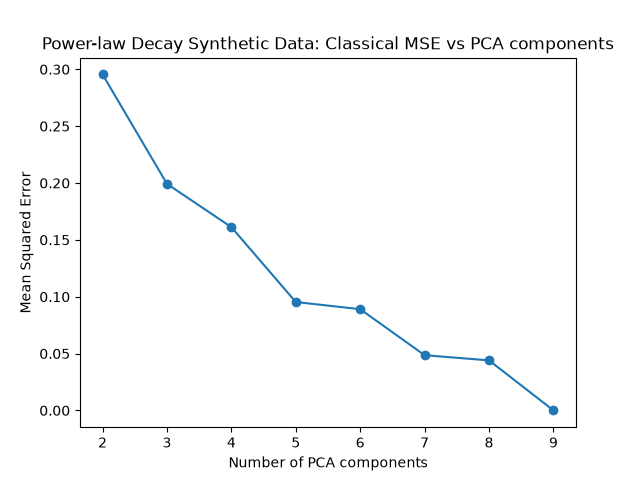
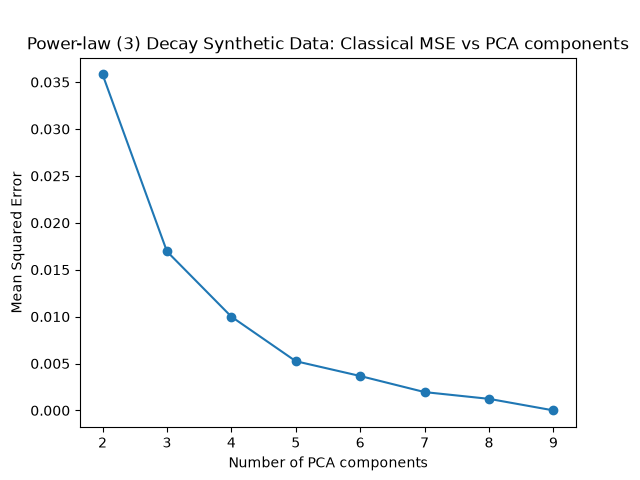
New stuff

diff --git a/QML/QVSR-PCA_Synth_bloch_Powerlaw_UltimatePauli.py b/QML/QVSR-PCA_Synth_bloch_Powerlaw_UltimatePauli.py
@@ -1,0 +1,219 @@
+from sklearn.datasets import fetch_california_housing
+from sklearn.datasets import load_diabetes
+import matplotlib
+matplotlib.use("Agg")  # save-only backend, safe in worker processes
+import matplotlib.pyplot as plt
+from sklearn.model_selection import train_test_split
+from sklearn.preprocessing import MinMaxScaler
+import numpy as np
+from sklearn.svm import SVR
+from classiq import *
+from classiq.applications.qsvm.qsvm import QSVM, QuantumKernelEvaluator
+from classiq.applications.qsvm.quantum_feature_maps import pauli_feature_map
+from classiq.open_library.functions.variational import encode_on_bloch
+from classiq.open_library.functions.variational import inplace_encode_on_bloch
+import random
+from sklearn.metrics import mean_squared_error
+from sklearn.metrics import r2_score
+from pathlib import Path
+import csv
+ # Set a random seed for reproducibility
+
+IMAGES_DIR = Path(__file__).resolve().parent.parent / "Powerlaw Pauli"
+IMAGES_DIR.mkdir(exist_ok=True)
+
+#for some reason, sklearn is not installed in the classiq environment, so we have to install it manually
+
+
+
+
+@qfunc
+def Map(data: CArray[CReal], x: QArray[QBit]):
+    inplace_encode_on_bloch(data, x)
+
+def QSVR_PCA(model, target,k, qubit_exponent ):
+    X_train, X_test, y_train, y_test = train_test_split(model, target, test_size=0.2, random_state=0) #split
+
+
+
+    X_train = np.array(X_train, float)
+    X_test  = np.array(X_test, float)
+    y_train = np.array(y_train, float)
+    y_test  = np.array(y_test, float)
+
+
+    cov = np.cov(X_train.T) #Covariance matrix of the standardized data/ How data moves together
+    #what does .T mean? (Transpose)
+
+
+    eigenvalues, eigenvectors = np.linalg.eigh(cov) #Eigen decomposition of the covariance matrix
+
+    explained = eigenvalues / eigenvalues.sum()
+
+    vecs = eigenvectors[:, ::-1] #orders strongest first, weakest last
+
+    X_train = X_train @ vecs[:, :k] #apperently creates a leak when done to the whole dataset
+    X_test = X_test @ vecs[:, :k]
+
+
+    scaler = MinMaxScaler(feature_range=(0, 2*np.pi))
+
+    X_train = scaler.fit_transform(X_train)   # learn min/max FROM TRAIN, then scale
+    X_test  = scaler.transform(X_test)        # apply TRAIN's min/max to test
+
+    PCA_weights = []
+    powerlaw_exponent = qubit_exponent
+
+    for i in range(X_train.shape[1]):
+        PCA_weights.append(
+            round((X_train.shape[1] / (i + 1)) ** powerlaw_exponent)
+        )
+
+    total_qubits = sum(PCA_weights)
+    if total_qubits > 24:
+        print(f"Skipping {k} PCs: requires {total_qubits} qubits")
+        return None
+
+    print(f"PCA with {k} components, {total_qubits} qubits")
+
+    X_train =np.repeat(X_train, PCA_weights, axis=1)
+    X_test =np.repeat(X_test, PCA_weights, axis=1)
+
+
+
+    #mini split due to hardware limitations
+    X_train, y_train = X_train[:60], y_train[:60]
+    X_test,  y_test  = X_test[:20],  y_test[:20]
+
+
+    N_DIM = X_train.shape[1]             
+    PAULIS = [[Pauli.Z], [Pauli.Z, Pauli.Z]] # single-qubit Z rotations + two-qubit ZZ rotations
+    AFFINES = [[1, 0], [1, np.pi]]           # how data values map into rotation angles
+    CONNECTIVITY = 2                          # which qubit pairs get entangled (2 = full: all pairs)
+    REPS = 2                                 # how many times to repeat the encoding block
+
+    feature_map = lambda data, qba: pauli_feature_map(  #still dont understand lambda fucntions
+        data, PAULIS, AFFINES, CONNECTIVITY, REPS, qba
+    )
+    kernel = QuantumKernelEvaluator(feature_map=feature_map, num_qubits= X_train.shape[1])
+
+    K_train = kernel.kernel(X_train)            # (60, 60) — train vs train
+    K_test  = kernel.kernel(X_test, X_train)    # (20, 60) — test vs train
+
+    qsvr = SVR(kernel="precomputed")   # "precomputed" = "I'll hand you the kernel myself"
+    qsvr.fit(K_train, y_train)         # learn from the quantum train kernel + real prices
+    preds = qsvr.predict(K_test)       # predict on the test-vs-train kernel
+
+    print("QSVR test MSE:", mean_squared_error(y_test, preds))
+
+    print("K_train mean:", K_train.mean())
+    print("K_train std :", K_train.std())
+    print("K_train min :", K_train.min(), "max:", K_train.max())
+
+    return mean_squared_error(y_test, preds), r2_score(y_test, preds), total_qubits
+
+def GenerateData(exp):
+    np.random.seed(0) 
+    num_samples = 1000
+    num_features = 9
+
+    eigenvalues_sorted = np.array([
+        0.5 / k**exp
+        for k in range(1, num_features + 1)
+    ])
+
+    random_data = np.random.randn(num_samples, num_features)
+
+    synthetic_data = random_data @ np.diag(np.sqrt(eigenvalues_sorted))
+
+    return synthetic_data
+
+def Powerlaw_QSVR_PCA(powerlaw_exponent, qubit_exponent):
+    mse= []
+    components = []
+    R = []
+
+    X = GenerateData(powerlaw_exponent)
+    np.random.seed(0)
+    X_std = (X - X.mean()) / X.std()#Standardization / dont understant what its doing
+
+    # ML TIME
+    y = X.sum(axis=1)
+
+    done = load_done()
+
+    for g in range(2, 9):
+        if (powerlaw_exponent, qubit_exponent, g) in done:
+            print(f"Already done: data={powerlaw_exponent}, qubits={qubit_exponent}, k={g}")
+            row = done[(powerlaw_exponent, qubit_exponent, g)]
+            mse.append(row[0])
+            R.append(row[1])
+            components.append(g)
+            continue
+
+        print("PCA with", g, "components")
+
+        l = QSVR_PCA(X_std, y, g, qubit_exponent)
+
+        if l is None:
+            continue
+
+        R.append(l[1])
+        mse.append(l[0])
+        components.append(g)
+        
+        with RESULTS_CSV.open("a", newline="") as f:
+            writer = csv.writer(f)
+            writer.writerow([
+                "Pauli",
+                powerlaw_exponent,
+                qubit_exponent,
+                g,
+                l[2],
+                l[0],
+                l[1]
+            ])
+
+    plt.figure()
+    plt.plot( components,mse, marker='o')
+    plt.title(f"powerlaw weights({powerlaw_exponent})  No Rotation Synthetic data Pauli encoding with weights({qubit_exponent}) : QSVR with PCA")
+    plt.xlabel("Number of PCA components")
+    plt.ylabel("Mean Squared Error")
+    plt.savefig(IMAGES_DIR / f"qsvr_pca_powerlawweights_NoRotation_{powerlaw_exponent}_pauli_{qubit_exponent}.png")
+    plt.close()
+
+
+RESULTS_CSV = IMAGES_DIR / "QSVR_Powerlaw_Pauli_NoRotation_Results.csv"
+
+def load_done():
+    # rows already in the CSV, so a restart picks up where it left off instead of starting over
+    done = {}
+    if RESULTS_CSV.exists():
+        with RESULTS_CSV.open(newline="") as f:
+            for row in csv.DictReader(f):
+                key = (float(row["Data Exponent"]), float(row["Qubit Exponent"]), int(row["PCA Components"]))
+                done[key] = (float(row["MSE"]), float(row["R2"]))
+    return done
+
+if __name__ == "__main__":
+    if not RESULTS_CSV.exists():  # only write the header once, never wipe old results
+        with RESULTS_CSV.open("w", newline="") as f:
+            writer = csv.writer(f)
+            writer.writerow([
+                "Encoding",
+                "Data Exponent",
+                "Qubit Exponent",
+                "PCA Components",
+                "Physical Qubits",
+                "MSE",
+                "R2"
+            ])
+
+    data_exponents = [0.5, 1.0, 1.5, 2.0, 3.0] 
+    qubit_exponents = [0.5, 1.0, 1.5, 2.0, 3.0]
+
+    for data_exp in data_exponents:
+        for qubit_exp in qubit_exponents:
+            print(f"\nTesting data={data_exp}, qubits={qubit_exp}")
+
+            Powerlaw_QSVR_PCA(data_exp, qubit_exp)

diff --git a/QML/QVSR-PCA_bloch_Powerlaw.py b/QML/QVSR-PCA_bloch_Powerlaw.py
@@ -1,0 +1,120 @@
+from sklearn.datasets import fetch_california_housing
+from sklearn.datasets import load_diabetes
+import matplotlib.pyplot as plt
+from sklearn.model_selection import train_test_split
+from sklearn.preprocessing import MinMaxScaler
+import numpy as np
+from sklearn.svm import SVR
+from classiq import *
+from classiq.applications.qsvm.qsvm import QSVM, QuantumKernelEvaluator
+from classiq.open_library.functions.variational import encode_on_bloch
+from classiq.open_library.functions.variational import inplace_encode_on_bloch
+import random
+from sklearn.metrics import mean_squared_error
+from sklearn.metrics import r2_score
+from pathlib import Path
+
+IMAGES_DIR = Path(__file__).resolve().parent.parent / "Images"
+IMAGES_DIR.mkdir(exist_ok=True)
+
+#for some reason, sklearn is not installed in the classiq environment, so we have to install it manually
+
+data = fetch_california_housing(as_frame=True)
+
+data_path = Path(__file__).resolve().parent.parent / "ML" / "synthetic_powerlaw3_dataset.npy"
+data = np.load(data_path)
+
+
+X = data
+X_std = (X - X.mean()) / X.std()#Standardization / dont understant what its doing
+
+@qfunc
+def Map(data: CArray[CReal], x: QArray[QBit]):
+    inplace_encode_on_bloch(data, x)
+# ML TIME
+y = data.sum(axis=1)
+
+def QSVR_PCA(model, target,k ):
+    X_train, X_test, y_train, y_test = train_test_split(model, target, test_size=0.2, random_state=0) #split
+
+
+
+    X_train = np.array(X_train, float)
+    X_test  = np.array(X_test, float)
+    y_train = np.array(y_train, float)
+    y_test  = np.array(y_test, float)
+
+
+    cov = np.cov(X_train.T) #Covariance matrix of the standardized data/ How data moves together
+    #what does .T mean? (Transpose)
+
+
+    eigenvalues, eigenvectors = np.linalg.eigh(cov) #Eigen decomposition of the covariance matrix
+
+    explained = eigenvalues / eigenvalues.sum()
+
+    vecs = eigenvectors[:, ::-1] #orders strongest first, weakest last
+
+    X_train = X_train @ vecs[:, :k] #apperently creates a leak when done to the whole dataset
+    X_test = X_test @ vecs[:, :k]
+
+
+    scaler = MinMaxScaler(feature_range=(0, 2*np.pi))
+
+    X_train = scaler.fit_transform(X_train)   # learn min/max FROM TRAIN, then scale
+    X_test  = scaler.transform(X_test)        # apply TRAIN's min/max to test
+
+    PCA_weights = []
+    powerlaw_exponent = 2  # controls the decay of the eigenvalues
+    for i in range(X_train.shape[1]):
+        PCA_weights.append(round((X_train.shape[1] / (i + 1)) ** powerlaw_exponent))
+
+    X_train =np.repeat(X_train, PCA_weights, axis=1)
+    X_test =np.repeat(X_test, PCA_weights, axis=1)
+
+    if X_train.shape[1] % 2:
+        X_train = np.pad(X_train, ((0,0),(0,1)))
+        X_test  = np.pad(X_test,  ((0,0),(0,1)))
+
+
+    #mini split due to hardware limitations
+    X_train, y_train = X_train[:60], y_train[:60]
+    X_test,  y_test  = X_test[:20],  y_test[:20]
+
+    feature_map = Map
+    N_DIM = X_train.shape[1]
+    
+    kernel = QuantumKernelEvaluator(feature_map=feature_map, num_qubits= X_train.shape[1] // 2)
+
+    K_train = kernel.kernel(X_train)            # (60, 60) — train vs train
+    K_test  = kernel.kernel(X_test, X_train)    # (20, 60) — test vs train
+
+    qsvr = SVR(kernel="precomputed")   # "precomputed" = "I'll hand you the kernel myself"
+    qsvr.fit(K_train, y_train)         # learn from the quantum train kernel + real prices
+    preds = qsvr.predict(K_test)       # predict on the test-vs-train kernel
+
+    print("QSVR test MSE:", mean_squared_error(y_test, preds))
+
+    print("K_train mean:", K_train.mean())
+    print("K_train std :", K_train.std())
+    print("K_train min :", K_train.min(), "max:", K_train.max())
+
+    return mean_squared_error(y_test, preds), r2_score(y_test, preds)
+
+mse= []
+components = []
+R = []
+for g in range(2, 9):
+    print("PCA with", g, "components")
+    l = QSVR_PCA(X_std, y, g)
+    R.append(l[1])
+    mse.append(l[0])
+    components.append(g)
+
+plt.figure()
+plt.plot( components,mse, marker='o')
+plt.title("powerlaw weights Synthetic data Bloch encoding with weights : QSVR with PCA")
+plt.xlabel("Number of PCA components")
+plt.ylabel("Mean Squared Error")
+plt.savefig(IMAGES_DIR / "qsvr_pca_powerlawweights_bloch.png")
+

diff --git a/ML/PCAmodelSynthpwr.py b/ML/PCAmodelSynthpwr.py
@@ -9,7 +9,7 @@ from pathlib import Path
 IMAGES_DIR = Path(__file__).resolve().parent.parent / "Images"
 IMAGES_DIR.mkdir(exist_ok=True)
 
-data = np.load(Path(__file__).resolve().parent / "synthetic_powerlaw_dataset.npy")
+data = np.load(Path(__file__).resolve().parent / "synthetic_powerlaw3_dataset.npy")
 X = data
 
 X_std = (X - X.mean()) / X.std() #Standardization / dont understant what its doing
@@ -111,7 +111,7 @@ for g in range(2,10):
 
 plt.figure()
 plt.plot(range(2,10), losses, marker='o')
-plt.title("Power-law Decay Synthetic Data: Classical MSE vs PCA components")
+plt.title("Power-law (3) Decay Synthetic Data: Classical MSE vs PCA components")
 plt.xlabel("Number of PCA components")
 plt.ylabel("Mean Squared Error")
 plt.savefig(IMAGES_DIR / "ML_POWERLAW_PCA_MSE.png")
